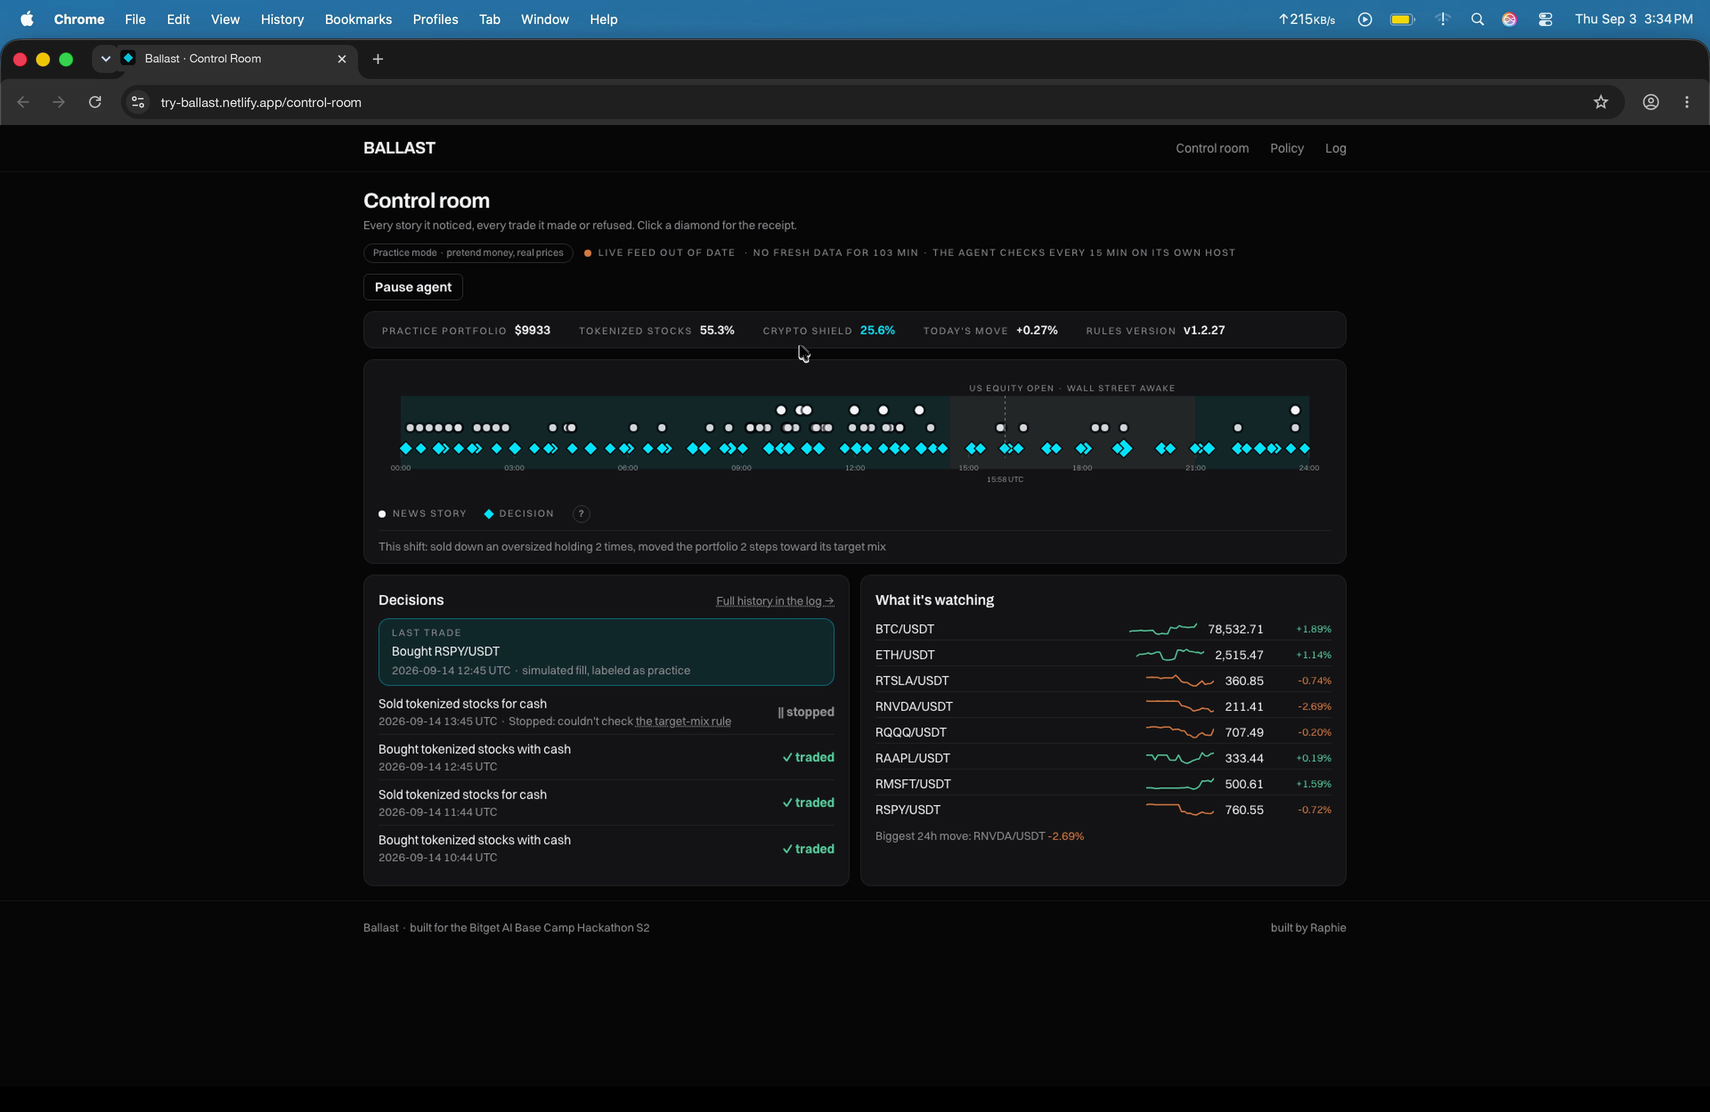
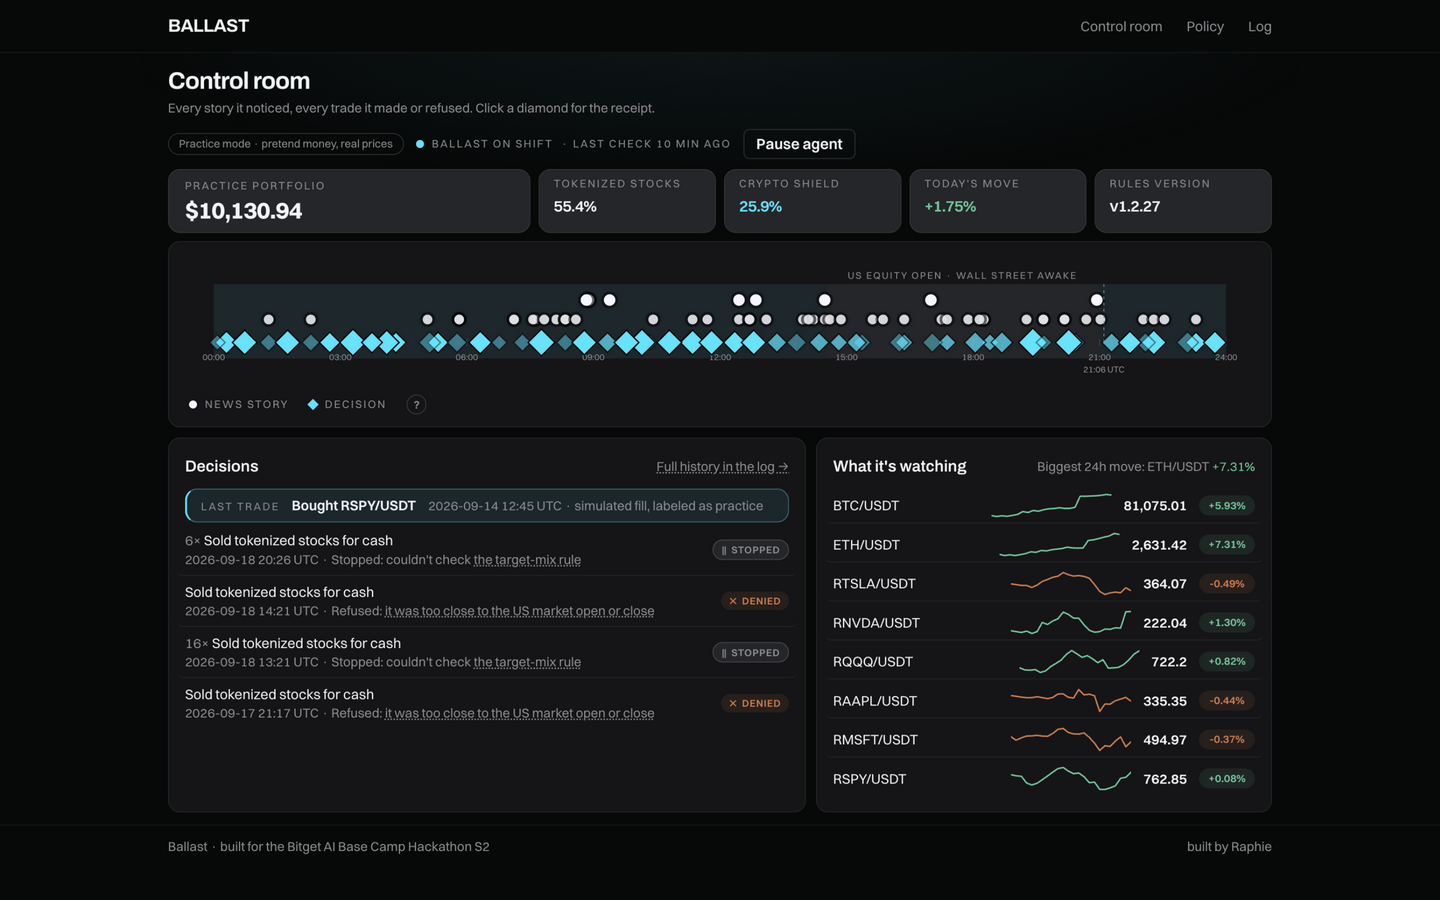
docs: readme audit fixes (measured chapters, localhost code-tick, core loop sample, deployment section), fresh hero/receipt captures, POLICY.md synced to v1.2.27

diff --git a/README.md b/README.md
@@ -30,14 +30,16 @@ The 2:36 showcase records the real control room running live (1080p desktop capt
 
 | Timestamp | Scene | What you see |
 | :--- | :--- | :--- |
-| **0:00** | Front door | Live proof strip: entries logged, rules enforced, violations 0 |
-| **0:11** | The overnight problem | 24/7 rToken + crypto watchlist and the written target mix |
-| **0:33** | Night watch band | 24-hour canvas: news dots vs decision diamonds, in UTC |
-| **0:55** | A decision receipt | Verdict pill, the plain-English action, every rule with its measured number |
-| **1:29** | Sense, Propose, Gate | Feeds feed a proposer; the written rules dispose; the ledger records |
-| **1:41** | The seven rules | Plain sentences with real numbers, editable on the site |
-| **2:01** | The log | Append-only record: news, prices, trade ideas, verdicts, orders |
-| **2:17** | Close | The portfolio, the shield, and today's move at a glance |
+| **0:00** | The hook | 2:47 a.m. New York: the market is closed, and the agent just made a trade |
+| **0:16** | The overnight problem | Tokenized stocks trade 24/7; a 3 a.m. rate shock moves them before any human wakes |
+| **0:34** | The control room | The band: shaded hours, headline dots, decision diamonds, and the live paper-book strip |
+| **0:59** | A decision receipt | Seven rules checked in order, each with its measured number; the order with its counterfactual book |
+| **1:30** | Sense, Propose, Gate | The brain proposes, the rules dispose |
+| **1:45** | Edit a rule on the site | Save commits to the agent's repo; the next receipt cites the new version |
+| **2:05** | The append-only ledger | Simulated fills, labeled as such on every surface, running on Bitget's Agent Hub |
+| **2:23** | The close | Seven rules, zero violations, everything live on screen |
+
+Timestamps measured from the final cut (scene durations via ffprobe), not estimated from a storyboard.
 
 ---
 
@@ -158,9 +160,23 @@ bun agent/run.ts
 bun run dev
 ```
 
-Open [http://localhost:3000](http://localhost:3000). Without Bitget credentials the agent runs in paper mode against public endpoints, exactly as the live site does.
+The local server runs at `http://localhost:3000`. Without Bitget credentials the agent runs in paper mode against public endpoints, exactly as the live site does.
 
 ---
+
+## The core loop, in five lines
+
+```ts
+// agent/run.ts, every 15 minutes
+const proposal = await propose(book, macroEvents, pxOf, now);
+const verdict = evaluate(proposal, policy);              // 7 deterministic rules
+if (verdict.result === "allow") await execute(proposal); // simulated, labeled
+ledger.append([proposal, verdict, order]);               // the receipt, whatever happened
+```
+
+## Deployment
+
+Live site: **[try-ballast.netlify.app](https://try-ballast.netlify.app)** on Netlify. The agent ticks every 15 minutes on a private runner and commits its ledger to this repo. Rule edits made on the website commit through the GitHub Contents API, and the runner pulls them before its next check.
 
 ## License
 
